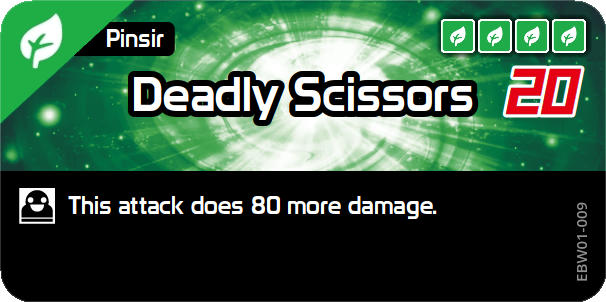
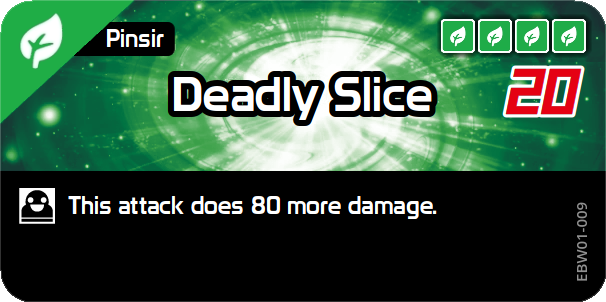
Deadly Slice

Changed region(s): [[0.2079, 0.2086, 0.802, 0.4172]]

diff --git a/database/text/wazacards/EB01/01-001_pinsir.md b/database/text/wazacards/EB01/01-001_pinsir.md
@@ -154,9 +154,9 @@
 
 [Reckless Charge](https://bandai-hobby.net/site/pokemon/plakoro/images/products/eb01/03/img_wazacard08.webp)
 
-#### Deadly Scissors ?
+#### Deadly Slice ?
 
-| Name      | Deadly Scissors ?                |
+| Name      | Deadly Slice ?                   |
 | --------- | -------------------------------- |
 | Japanese  | ひっさつばさみ                   |
 | Type      | Grass                            |
@@ -171,7 +171,7 @@
 | Down      |                                  |
 | Sideways  |                                  |
 
-[Deadly Scissors](https://bandai-hobby.net/site/pokemon/plakoro/images/products/eb01/03/img_wazacard09.webp)
+[Deadly Slice](https://bandai-hobby.net/site/pokemon/plakoro/images/products/eb01/03/img_wazacard09.webp)
 
 #### Submission
 
